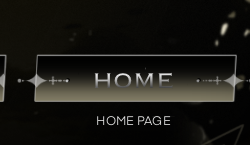
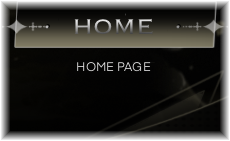
Fix third site buttons: precise crop from poster with soft feathered edges

diff --git a/components/PosterStage.tsx b/components/PosterStage.tsx
@@ -58,7 +58,7 @@ const thirdHotspots: Hotspot[] = [
     image: assetPath("/assets/hotspots/btn-third-language.png"),
     label: "Switch language",
     target: "language",
-    className: "left-[66.2%] top-[75.8%] h-[12.9%] w-[13.6%]",
+    className: "left-[68.9%] top-[80.65%] h-[12.5%] w-[12.55%]",
     visible: false,
     revealOnHover: true,
   },
@@ -67,7 +67,7 @@ const thirdHotspots: Hotspot[] = [
     image: assetPath("/assets/hotspots/btn-third-home.png"),
     label: "Home",
     target: "home",
-    className: "left-[80.3%] top-[75.8%] h-[12.9%] w-[13.6%]",
+    className: "left-[81.43%] top-[80.65%] h-[12.5%] w-[12.55%]",
     visible: false,
     revealOnHover: true,
   },